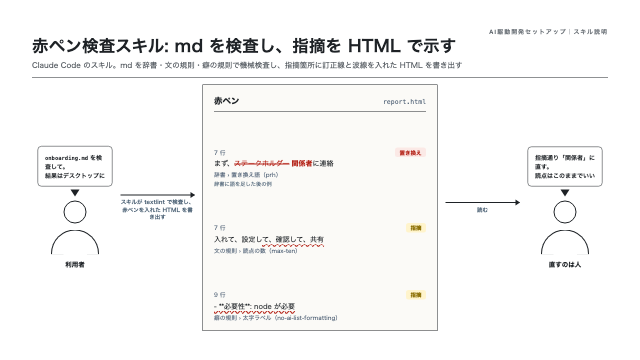
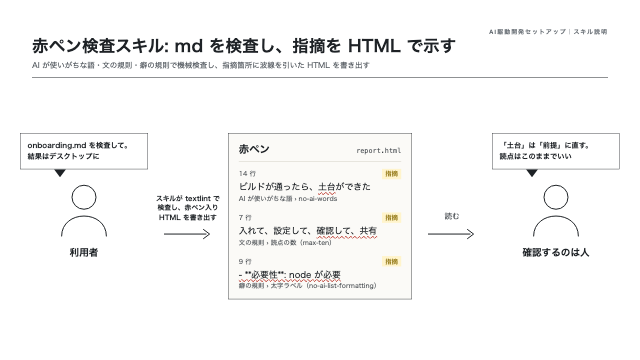
【更新】赤ペン検査スキルの指摘スライドを更新
prh辞書廃止・ai-words-jaプリセット採用に合わせ、赤ペン検査スキル
「指摘のHTML提示」スライドの見本を「置き換え」表現から「指摘」の
みへ更新。0.8倍等比変換でシェル本文へ移植し、Phase C機械検証・
Phase D AIレビュー・サムネイル再生成まで完了。

Claude-Session: https://claude.ai/code/session_012csmgLNsvGctj6r7BQWeSZ

diff --git a/slides/赤ペン検査スキル-指摘のHTML提示/解説スライド.html b/slides/赤ペン検査スキル-指摘のHTML提示/解説スライド.html
@@ -5,53 +5,26 @@
 <meta name="viewport" content="width=device-width,initial-scale=1">
 <title>赤ペン検査スキル: md を検査し、指摘を HTML で示す</title>
 <style>
-  /* ==== デザイントークン（変更禁止） ==== */
-  :root{
-    --page: #EDF0F4;
-    --surface: #FFFFFF;
-    --ink: #1C2B3A;
-    --ink-2: #55667A;
-    --ink-3: #52677A;
-    --border: #D9E0E8;
-    --critical: #B42318;
-    --replace-bg: #FBE9E6;
-    --flag-bg: #FFF4CC;
-    --flag-ink: #8A6D00;
-    --mono: ui-monospace, Menlo, monospace;
+  /* ==== アートボード（1600x900）を 0.8 倍の等比変換でシェル本文へ移植する専用ラッパー ==== */
+  .canvas-scale-outer{
+    flex: 1 1 auto;
+    min-height: 0;
+    margin: 0 -64px -40px -64px;
+    display: flex;
+    align-items: center;
+    justify-content: center;
+    overflow: visible;
   }
-
-  /* ==== 左右2名の吹き出し＋人型（同一構造を左右で使い回す） ==== */
-  .flow-row{ display:flex; flex:1; min-height:0; align-items:center; justify-content:center; gap:16px; padding-top:6px; }
-  .flow-col{ flex:0 0 150px; display:flex; flex-direction:column; align-items:center; gap:8px; }
-  .speech-bubble{ box-sizing:border-box; width:100%; border:1.5px solid var(--ink); border-radius:8px; background:var(--surface); padding:12px 14px; font-size:12px; font-weight:600; line-height:1.5; color:var(--ink); text-align:left; }
-  .speech-bubble .mono{ font-family:var(--mono); font-size:11px; }
-  .bubble-tail{ width:0; height:0; border-left:9px solid transparent; border-right:9px solid transparent; border-top:14px solid var(--ink); margin-top:-2px; }
-  .person-icon{ width:46px; height:46px; border:2px solid var(--ink); border-radius:50%; box-sizing:border-box; }
-  .person-body{ width:96px; height:50px; border:2px solid var(--ink); border-bottom:none; border-radius:60px 60px 0 0; box-sizing:border-box; margin-top:4px; }
-  .person-label{ font-size:13px; font-weight:700; color:var(--ink); margin-top:2px; white-space:nowrap; }
-
-  /* ==== 左右の矢印（横並びの工程間を1行の帯で説明） ==== */
-  .flow-arrow{ flex:0 0 148px; display:flex; flex-direction:column; align-items:center; gap:6px; }
-  .flow-arrow-line{ position:relative; width:100%; height:2px; background:var(--ink); }
-  .flow-arrow-head{ position:absolute; right:-1px; top:50%; transform:translateY(-50%); width:0; height:0; border-top:6px solid transparent; border-bottom:6px solid transparent; border-left:9px solid var(--ink); }
-  .flow-arrow-text{ font-size:11px; font-weight:600; color:var(--ink-3); line-height:1.35; text-align:center; }
-
-  /* ==== 赤ペン report.html の見本パネル ==== */
-  .report-panel{ flex:0 0 470px; align-self:stretch; margin:8px 0; box-sizing:border-box; border:1.5px solid var(--ink); background:#FBFAF7; padding:18px 22px; display:flex; flex-direction:column; justify-content:space-between; gap:12px; }
-  .report-head{ display:flex; justify-content:space-between; align-items:baseline; border-bottom:1.5px solid var(--ink); padding-bottom:9px; }
-  .report-head .label{ font-size:17px; font-weight:700; color:var(--ink); }
-  .report-head .mono{ font-family:var(--mono); font-size:13px; color:var(--ink-2); }
-  .report-item{ display:flex; flex-direction:column; gap:3px; }
-  .report-item-meta{ display:flex; justify-content:space-between; align-items:center; font-size:11.5px; color:var(--ink-2); }
-  .tag{ padding:1px 9px; border-radius:5px; font-size:11px; font-weight:700; }
-  .tag--replace{ background:var(--replace-bg); color:var(--critical); }
-  .tag--flag{ background:var(--flag-bg); color:var(--flag-ink); }
-  .report-item-text{ font-size:14px; line-height:1.5; color:var(--ink); }
-  .strike{ color:var(--critical); text-decoration:line-through; text-decoration-thickness:2px; }
-  .fix{ color:var(--critical); font-weight:700; margin-left:4px; }
-  .wavy{ text-decoration:underline wavy var(--critical); text-decoration-thickness:2px; text-underline-offset:4px; }
-  .report-item-source{ font-size:11.5px; color:var(--ink-2); }
-  .report-item-note{ font-size:10.5px; color:var(--ink-3); }
+  .canvas-scale-inner{
+    flex-shrink: 0;
+    transform: scale(0.8);
+    transform-origin: center center;
+    background: #FFFFFF;
+    color: #1E2226;
+    font-family: 'Hiragino Sans', 'Hiragino Kaku Gothic ProN', 'Noto Sans JP', sans-serif;
+    font-size: 20px;
+    line-height: 1.5;
+  }
 </style>
 <link rel="stylesheet" data-shared-slide-shell href="../../assets/shared-slide-shell.css">
 <script defer data-shared-slide-shell-script src="../../assets/shared-slide-shell.js"></script>
@@ -64,60 +37,62 @@
     <header class="slide-header">
       <span class="slide-eyebrow">AI駆動開発セットアップ｜スキル説明</span>
       <h1 class="slide-title">赤ペン検査スキル: md を検査し、指摘を HTML で示す</h1>
-      <p class="slide-subtitle">Claude Code のスキル。md を辞書・文の規則・癖の規則で機械検査し、指摘箇所に訂正線と波線を入れた HTML を書き出す</p>
+      <p class="slide-subtitle">AI が使いがちな語・文の規則・癖の規則で機械検査し、指摘箇所に波線を引いた HTML を書き出す</p>
     </header>
 
-    <div class="flow-row">
+    <div class="canvas-scale-outer">
+      <div class="canvas-scale-inner">
 
-      <div class="flow-col">
-        <div class="speech-bubble"><span class="mono">onboarding.md</span> を検査して。<br>結果はデスクトップに</div>
-        <div class="bubble-tail"></div>
-        <div class="person-icon"></div>
-        <div class="person-body"></div>
-        <div class="person-label">利用者</div>
-      </div>
+        <div style="display: flex; align-items: flex-start; gap: 0;">
 
-      <div class="flow-arrow">
-        <div class="flow-arrow-line"><div class="flow-arrow-head"></div></div>
-        <span class="flow-arrow-text">スキルが textlint で検査し、赤ペンを入れた HTML を書き出す</span>
-      </div>
+          <div style="width: 320px; flex-shrink: 0; display: flex; flex-direction: column; align-items: center;">
+            <div style="width: 320px; border: 1px solid #1E2226; padding: 16px 18px; box-sizing: border-box; font-size: 18px; font-weight: 600; line-height: 1.55;">onboarding.md を検査して。<br>結果はデスクトップに</div>
+            <svg role="presentation" width="30" height="20" viewBox="0 0 30 20" style="display: block; margin-left: -120px;"><path d="M0 0 H30 L15 20 Z" fill="#1E2226"></path></svg>
+            <svg role="presentation" width="120" height="150" viewBox="0 0 120 150" style="display: block; margin-top: 16px;" fill="none" stroke="#1E2226" stroke-width="2.5"><circle cx="60" cy="34" r="30"></circle><path d="M4 132 C4 64 116 64 116 132"></path></svg>
+            <div style="margin-top: 4px; font-size: 24px; font-weight: 600;">利用者</div>
+          </div>
 
-      <div class="report-panel">
-        <div class="report-head">
-          <span class="label">赤ペン</span>
-          <span class="mono">report.html</span>
+          <div style="width: 200px; flex-shrink: 0; display: flex; flex-direction: column; align-items: center; padding-top: 150px;">
+            <div style="text-align: center; font-size: 17px; font-weight: 600; line-height: 1.4; width: 170px; height: 72px; display: flex; align-items: flex-end; justify-content: center;"><span>スキルが textlint で<br>検査し、赤ペン入り<br>HTML を書き出す</span></div>
+            <svg role="presentation" width="120" height="40" viewBox="0 0 120 40" style="display: block; margin-top: 10px;"><path d="M0 20 H106" stroke="#1E2226" stroke-width="2.5"></path><path d="M98 8 L114 20 L98 32" fill="none" stroke="#1E2226" stroke-width="2.5"></path></svg>
+          </div>
+
+          <div style="width: 460px; flex-shrink: 0; background: #FBFAF7; border: 1px solid #1E2226; box-sizing: border-box; padding: 20px 26px;">
+            <div style="display: flex; justify-content: space-between; align-items: baseline; border-bottom: 1px solid #C9C4B8; padding-bottom: 10px;"><span style="font-size: 26px; font-weight: 600;">赤ペン</span><span style="font-size: 17px; color: #3E4348; font-family: ui-monospace, Menlo, monospace;">report.html</span></div>
+            <div style="margin-top: 18px; display: flex; flex-direction: column; gap: 22px;">
+              <div>
+                <div style="display: flex; justify-content: space-between; align-items: center;"><span style="font-size: 16px; color: #3E4348;">14 行</span><span style="font-size: 16px; padding: 1px 8px; background: #FFF4CC; color: #876a00;">指摘</span></div>
+                <div style="font-size: 22px; margin-top: 4px;">ビルドが通ったら、<span style="text-decoration: underline wavy #B42318; text-underline-offset: 4px;">土台</span>ができた</div>
+                <div style="font-size: 16px; color: #3E4348;">AI が使いがちな語 › no-ai-words</div>
+              </div>
+              <div>
+                <div style="display: flex; justify-content: space-between; align-items: center;"><span style="font-size: 16px; color: #3E4348;">7 行</span><span style="font-size: 16px; padding: 1px 8px; background: #FFF4CC; color: #876a00;">指摘</span></div>
+                <div style="font-size: 22px; margin-top: 4px;">入れて、設定して、<span style="text-decoration: underline wavy #B42318; text-underline-offset: 4px;">確認して、共有</span></div>
+                <div style="font-size: 16px; color: #3E4348;">文の規則 › 読点の数（max-ten）</div>
+              </div>
+              <div>
+                <div style="display: flex; justify-content: space-between; align-items: center;"><span style="font-size: 16px; color: #3E4348;">9 行</span><span style="font-size: 16px; padding: 1px 8px; background: #FFF4CC; color: #876a00;">指摘</span></div>
+                <div style="font-size: 22px; margin-top: 4px;"><span style="text-decoration: underline wavy #B42318; text-underline-offset: 4px;">- **必要性**: node が必要</span></div>
+                <div style="font-size: 16px; color: #3E4348;">癖の規則 › 太字ラベル（no-ai-list-formatting）</div>
+              </div>
+            </div>
+          </div>
+
+          <div style="width: 200px; flex-shrink: 0; display: flex; flex-direction: column; align-items: center; padding-top: 150px;">
+            <div style="text-align: center; font-size: 19px; color: #3E4348; line-height: 1.4; height: 72px; display: flex; align-items: flex-end; justify-content: center;"><span>読む</span></div>
+            <svg role="presentation" width="120" height="40" viewBox="0 0 120 40" style="display: block; margin-top: 10px;"><path d="M0 20 H106" stroke="#1E2226" stroke-width="2.5"></path><path d="M98 8 L114 20 L98 32" fill="none" stroke="#1E2226" stroke-width="2.5"></path></svg>
+          </div>
+
+          <div style="width: 320px; flex-shrink: 0; display: flex; flex-direction: column; align-items: center;">
+            <div style="width: 320px; border: 1px solid #1E2226; padding: 16px 18px; box-sizing: border-box; font-size: 18px; font-weight: 600; line-height: 1.55;">「土台」は「前提」に直す。<br>読点はこのままでいい</div>
+            <svg role="presentation" width="30" height="20" viewBox="0 0 30 20" style="display: block; margin-left: -120px;"><path d="M0 0 H30 L15 20 Z" fill="#1E2226"></path></svg>
+            <svg role="presentation" width="120" height="150" viewBox="0 0 120 150" style="display: block; margin-top: 16px;" fill="none" stroke="#1E2226" stroke-width="2.5"><circle cx="60" cy="34" r="30"></circle><path d="M4 132 C4 64 116 64 116 132"></path></svg>
+            <div style="margin-top: 4px; font-size: 24px; font-weight: 600;">確認するのは人</div>
+          </div>
+
         </div>
-        <div class="report-item">
-          <div class="report-item-meta"><span>7 行</span><span class="tag tag--replace">置き換え</span></div>
-          <div class="report-item-text">まず、<span class="strike">ステークホルダー</span><span class="fix">関係者</span>に連絡</div>
-          <div class="report-item-source">辞書 › 置き換え語（prh）</div>
-          <div class="report-item-note">辞書に語を足した後の例</div>
-        </div>
-        <div class="report-item">
-          <div class="report-item-meta"><span>7 行</span><span class="tag tag--flag">指摘</span></div>
-          <div class="report-item-text">入れて、設定し<span class="wavy">て、確認して、共有</span></div>
-          <div class="report-item-source">文の規則 › 読点の数（max-ten）</div>
-        </div>
-        <div class="report-item">
-          <div class="report-item-meta"><span>9 行</span><span class="tag tag--flag">指摘</span></div>
-          <div class="report-item-text"><span class="wavy">- **必要性**: node が必要</span></div>
-          <div class="report-item-source">癖の規則 › 太字ラベル（no-ai-list-formatting）</div>
-        </div>
-      </div>
 
-      <div class="flow-arrow">
-        <div class="flow-arrow-line"><div class="flow-arrow-head"></div></div>
-        <span class="flow-arrow-text">読む</span>
       </div>
-
-      <div class="flow-col">
-        <div class="speech-bubble">指摘通り「関係者」に直す。<br>読点はこのままでいい</div>
-        <div class="bubble-tail"></div>
-        <div class="person-icon"></div>
-        <div class="person-body"></div>
-        <div class="person-label">直すのは人</div>
-      </div>
-
     </div>
 
   </div>

diff --git a/index.html b/index.html
@@ -1872,7 +1872,9 @@ const SLIDES = [
     "pack": false,
     "has_prompt": false,
     "template": "",
-    "date": "2026-09-15"
+    "date": "2026-09-15",
+    "updated": "2026-09-15",
+    "updatedAt": "2026-09-15T15:47:30+09:00"
   }
 ];
 const PACKS = [

diff --git a/slides/赤ペン検査スキル-指摘のHTML提示/検査記録.md b/slides/赤ペン検査スキル-指摘のHTML提示/検査記録.md
@@ -1,22 +1,27 @@
 # 検査記録: 赤ペン検査スキル-指摘のHTML提示
 
-## 観点レビュー表の照合結果（2026-09-15）
+## 観点レビュー表の照合結果（2026-09-16 更新）
 
 | 観点キー | 判定 | 備考 |
 |---|---|---|
 | 構造-共有シェル準拠 | PASS | .slide-viewport > .slide > header.slide-header（eyebrow/title/subtitle）へ移植 |
 | 寸法-固定1280x720 | PASS | 共有CSSの.slide固定寸法を使用 |
 | タイトル-40字以内 | PASS | 30字、実描画1行 |
-| 副題-70字以内 | PASS | 66字（初稿93字から短縮し承認を得た） |
-| 文言保持-akapen.html由来テキスト | PASS | 眉見出し・副題・吹き出し文・見本3件の文/タグ/表示名/注記・矢印ラベル・人物ラベルを変更せず保持 |
-| html-common-static | PASS | verify-html-static.mjs |
-| html-common-runtime | PASS | verify-html-runtime.mjs |
+| 副題-70字以内 | PASS | 49字、実描画1行 |
+| 文言保持-アートボード由来テキスト | PASS | 眉見出し・タイトル・副題・吹き出し文・見本3件の文/表示名/注記・矢印ラベル・人物ラベルを変更せず保持 |
+| html-common-static | PASS | verify-html-static.mjs（SHA d71b037a199f0d8e43f603a3a7f248f58aa2cf7c090b14110076faa42df884d7） |
+| html-common-runtime | PASS | verify-html-runtime.mjs（同上SHA） |
 | html-common-ai | PASS | 12観点すべてPASSまたは対象外（表なし） |
 
-反復記録: 初稿の題名（41字）・副題（93字）が共有シェル契約の文字数上限に抵触し、コーディネーター承認を得て題名30字・副題66字へ短縮して確定した。
+反復記録:
+
+1. 初稿の題名（41字）・副題（93字）が共有シェル契約の文字数上限に抵触し、コーディネーター承認を得て題名30字・副題66字へ短縮して確定した（2026-09-15）。
+2. prh辞書による自動置換機能の廃止・ai-words-jaプリセット採用（agent-home側コミットc61bddc/33c38c9）に合わせて本文を更新した（2026-09-16）。見本の「置き換え」タグと副題の辞書機能への言及を削除し、指摘（波線）のみを示す内容へ改めた。確認者側の吹き出しも「指摘通りに直す」から「「土台」は「前提」に直す」という利用者自身の判断による文言へ変更し、実際の仕様（修正案は提示しない）と一致させた。副題は49字。
+3. 上記2の更新に伴い、サムネイル.pngと本ファイルが旧内容のまま追従していなかった（Phase Dレビューでcritical所見）。現行HTML（SHA d71b037a...）からサムネイルを再生成し、本ファイルの記載を更新した。
 
 ## タスク限定の観点（更新時の再検査項目）
 
-- 左右対称の3カラム構成（利用者/検査結果/直す人）と2本の矢印ラベルを崩さない
-- 訂正線（赤の取り消し線）・波線・タグ色（置き換え=赤系、指摘=黄系）の使い分けを保つ
+- 左右対称の5カラム構成（利用者/矢印/検査結果/矢印/直す人）と2本の矢印ラベルを崩さない
+- 波線（指摘）の表現のみを用い、取り消し線・置き換え後語といった「自動置換」を示す表現を追加しない（prh廃止後の仕様と矛盾するため）
+- 指摘タグの配色は背景 #FFF4CC・文字 #876a00（コントラスト比4.66、WCAG AA基準を満たすよう移植時に#8A6D00から調整）
 - 見本3件の行数表示・タグ・辞書/文の規則/癖の規則の分類表記を元資料と一致させる
